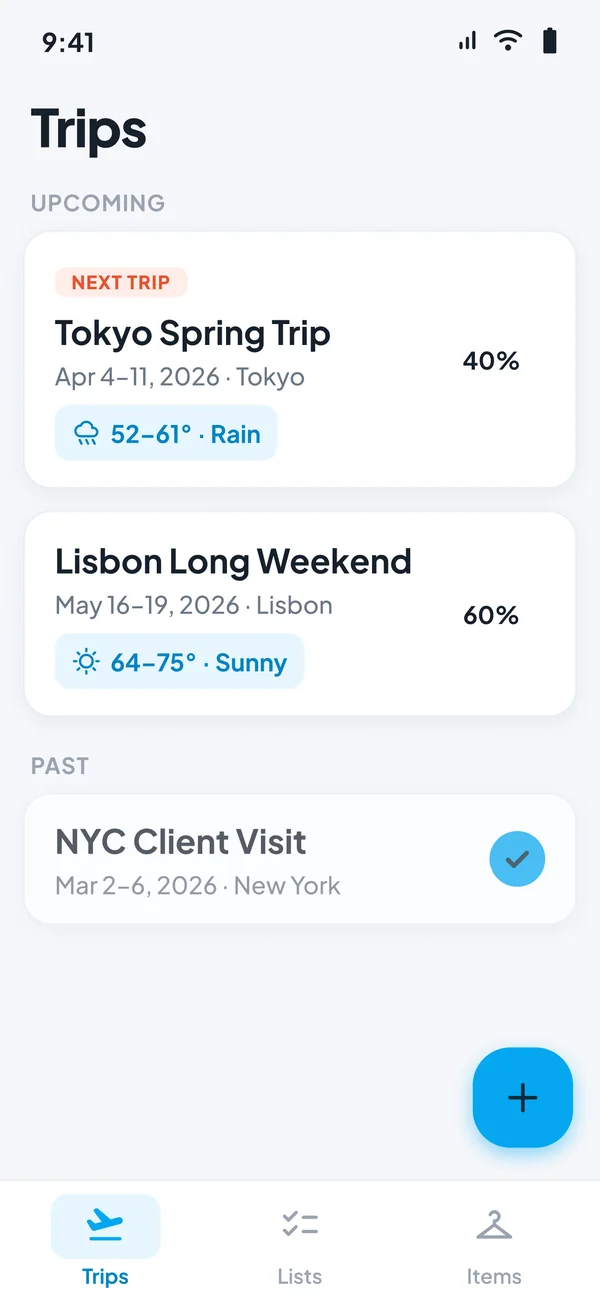
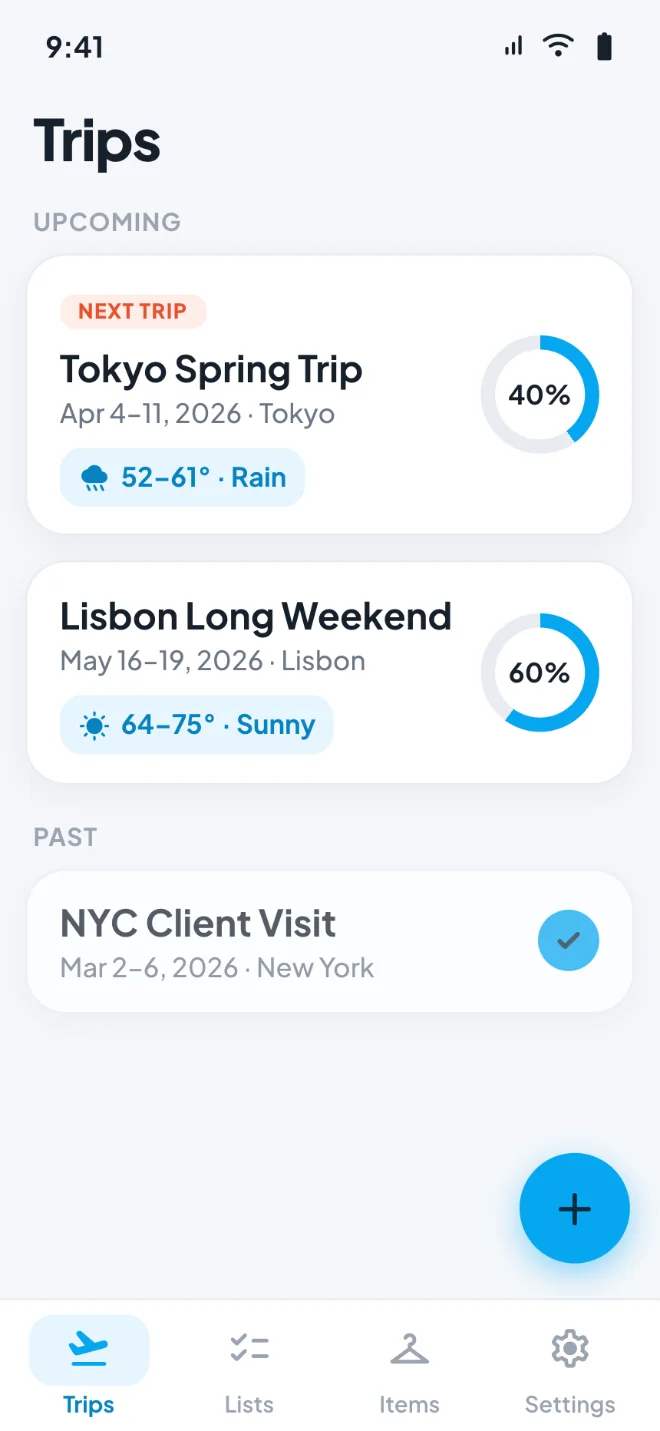
Update the hero screenshots to v2.2 with the Settings tab
The three screens showing the bottom tab bar gained a fourth Settings
tab. Screens 4 and 5 have no tab bar and are unchanged, so they still
derive from the v2.0 masters.

Shipped at the source's native 660x1431 rather than downscaled to the
600px target. The v2.2 captures were rendered at 2x and already
downscaled once, so resampling again would compound quality loss to save
9KB on a 191KB page.

The supplied README says no markup changes are needed, which was true of
the pre-optimization site. It is not true now: the markup carries
explicit width and height attributes for CLS, so those move from 600x1300
to 660x1431. Verified every attribute against its real file, and that the
rendered layout is unchanged at 178x386 because the aspect ratio is
within 0.0004 of the old one.

Keeps the v2.2 sources as the master record and documents which slots
derive from which masters.

Claude-Session: https://claude.ai/code/session_01DvkspKn7vw5WcSzZMySWL7

diff --git a/index.html b/index.html
@@ -146,9 +146,9 @@
 
                 <div class="hero-screenshots">
                     <div class="hero-screenshots-inner">
-                        <img src="./assets/images/screenshot_1.webp" width="600" height="1300" fetchpriority="high" decoding="async" alt="Trunk trip list showing upcoming trips with packing progress for each" />
-                        <img src="./assets/images/screenshot_2.webp" width="600" height="1300" loading="lazy" decoding="async" alt="A saved packing list in Trunk, with items grouped by category" />
-                        <img src="./assets/images/screenshot_3.webp" width="600" height="1300" loading="lazy" decoding="async" alt="Trunk item inventory showing reusable items ready to add to a trip" />
+                        <img src="./assets/images/screenshot_1.webp" width="660" height="1431" fetchpriority="high" decoding="async" alt="Trunk trip list showing upcoming trips with packing progress for each" />
+                        <img src="./assets/images/screenshot_2.webp" width="660" height="1431" loading="lazy" decoding="async" alt="A saved packing list in Trunk, with items grouped by category" />
+                        <img src="./assets/images/screenshot_3.webp" width="660" height="1431" loading="lazy" decoding="async" alt="Trunk item inventory showing reusable items ready to add to a trip" />
                     </div>
                 </div>
             </div>

diff --git a/docs/superpowers/plans/2026-07-30-seo-verification.md b/docs/superpowers/plans/2026-07-30-seo-verification.md
@@ -210,10 +210,25 @@ These require the live site and the owner's Google/Facebook/LinkedIn accounts. T
   unchallenged. **`WEBSITE_REDESIGN.md` is a historical document and its
   screenshot note is stale; do not act on it.**
 
-  `assets/images/v2.0/` is now the full-resolution master source for the shipped
-  WebP derivatives, since the intermediate `screenshot_*.png` copies were removed.
-  To regenerate: resize to 600px wide (hero, `screenshot_1–3`) or 744px wide (row,
-  `screenshot_4–5`) and encode WebP q85.
+  **Master sources and how to regenerate.** The intermediate `screenshot_*.png`
+  copies were removed, so the masters live in two places:
+
+  | Slot | Master | Shipped |
+  |---|---|---|
+  | `screenshot_1–3` (hero) | `docs/design/v2.2 assets/web-screenshots/` | 660×1431 WebP q85 |
+  | `screenshot_4–5` (row) | `assets/images/v2.0/` | 744×1613 WebP q85 |
+
+  The hero trio was replaced in v2.2 (a Settings tab was added to the bottom nav);
+  screens 4 and 5 have no tab bar and were unchanged, so they still derive from
+  v2.0. The v2.2 sources arrived pre-sized at 660px and were encoded at native
+  size rather than downscaled to the 600px target — re-resampling an
+  already-downscaled source would compound quality loss to save 9 KB.
+
+  Rule of thumb for future captures: ship at roughly 3× the largest CSS width the
+  slot renders at (200px mobile for the hero, 248px desktop for the row), or at
+  native size if the source already sits near that. Encode WebP q85, then update
+  the `width`/`height` attributes in `index.html` to the real file dimensions —
+  they are asserted by `scripts/check-seo.mjs` only for presence, not accuracy.
 - **`aggregateRating` in the app schema.** Only worth adding against a verifiable, maintained source.
 
 ---
